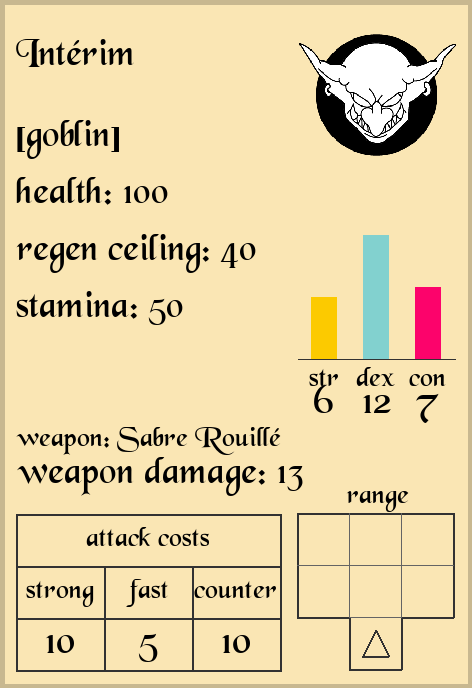
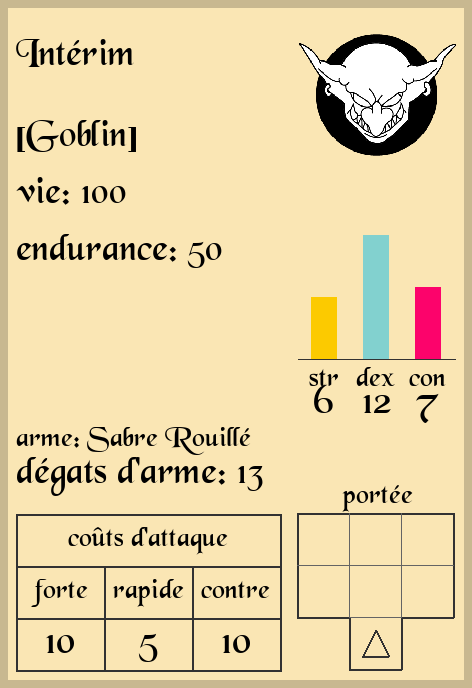
Entity cards language switched to french.

diff --git a/drawCards.py b/drawCards.py
@@ -16,17 +16,14 @@ descFontName = "data/fonts/Jost/Jost-VariableFont_wght.ttf"
 def mainDraw():
     #outPutTest()
     #generateMovesCards()
-    generateItemsCards()
+    #generateItemsCards()
     return
 
 
 def outPutTest():
     pygame.init()
-    #testEntity = Entity(name="Kamul",species="demon",strength=5,dexterity=10,constitution=15,weaponName="claws")
-    #cardSurface = getMonsterCard(testEntity,1,5)
-    #cardSurface = getMoveCard("feint")
-    cardSurface = getItemCard(weapons["rapière"])
-    #cardSurface = getItemCard(tools["Verrou Déployable"],borderSize=1,sizeFactor=4)
+    testEntity = Entity(name="Kamul",species="demon",strength=5,dexterity=10,constitution=15,weaponName="claws")
+    cardSurface = getMonsterCard(testEntity,1)
     seeOutput(cardSurface)
 
 
@@ -284,8 +281,9 @@ def getMonsterCard(entity,borderSize=1,sizeFactor=8):
     yMargin += nameSurface.h + 4*borderSize
 
     #species,healths,stamina
-    infos = ["["+entity.species+"]","health: "+str(entity.health),
-             "regen ceiling: "+str(entity.criticalHealth),"stamina: "+str(entity.stamina)]
+    infos = ["["+speciesToFr[entity.species]+"]","vie: "+str(entity.health),
+             "endurance: "+str(entity.stamina)]
+    #infos += ["régénération: "+str(entity.criticalHealth)]
     for index,info in enumerate(infos):
         yMargin += text(cardSurface,info,smallTextSize,textColor,"topleft",xMargin,yMargin).h + borderSize
 
@@ -297,7 +295,7 @@ def getMonsterCard(entity,borderSize=1,sizeFactor=8):
     drawingSize = width//3
     rangeDrawing = getRange(entity,drawingSize,drawingSize)
     paste(cardSurface,rangeDrawing,(width-borderSize*2,height-borderSize*2),"bottomright")
-    text(cardSurface,"range",verySmallTextSize,textColor,"midbottom",width-borderSize*2-drawingSize//2,height-borderSize*2-drawingSize)
+    text(cardSurface,"portée",verySmallTextSize,textColor,"midbottom",width-borderSize*2-drawingSize//2,height-borderSize*2-drawingSize)
 
     #stamina costs
     tableHeight = width//3
@@ -307,8 +305,8 @@ def getMonsterCard(entity,borderSize=1,sizeFactor=8):
     yMargin = yPos - (tableHeight + 2*borderSize)
 
     #weapon,weaponDamage
-    yMargin += -text(cardSurface,"weapon damage: "+str(entity.weaponDamage),smallTextSize,textColor,"bottomleft",xMargin,yMargin).h + borderSize
-    yMargin += -text(cardSurface,"weapon: "+entity.weaponName,verySmallTextSize,textColor,"bottomleft",xMargin,yMargin).h + borderSize
+    yMargin += -text(cardSurface,"dégats d'arme: "+str(entity.weaponDamage),smallTextSize,textColor,"bottomleft",xMargin,yMargin).h + borderSize
+    yMargin += -text(cardSurface,"arme: "+entity.weaponName,verySmallTextSize,textColor,"bottomleft",xMargin,yMargin).h + borderSize
 
     return cardSurface
 
@@ -326,8 +324,8 @@ def getCosts(entity,width,height,textSize):
             hStart = 0
         pygame.draw.line(costsTable,(50,50,50),(xStep*index,hStart),(xStep*index,3*yStep),2)
 
-    text(costsTable,"attack costs",textSize,(0,0,0),"center",width//2,yStep//2)
-    labels = ["strong","fast","counter"]
+    text(costsTable,"coûts d'attaque",textSize,(0,0,0),"center",width//2,yStep//2)
+    labels = ["forte","rapide","contre"]
     costs = [entity.strongAtkCost,entity.fastAtkCost,entity.counterAtkCost]
     for index,label in enumerate(labels):
         moveColor = (0,0,0)

diff --git a/constAndStyle.py b/constAndStyle.py
@@ -7,6 +7,11 @@ monsters = ["orc","goblin","skeleton","zombie","mummy","fimir","warrior","demon"
 nonMonsters = ["human","elve","dwarf"]
 speciesList = monsters+nonMonsters
 
+speciesToFr = { "orc":"Orc","goblin":"Goblin","fimir":"Fimir",
+                "skeleton":"Squelette","zombie":"Zombie","mummy":"Mommie",
+                "warrior":"Ancient Guerrier","demon":"Démon",
+                "human":"Humain","elve":"Elfe","dwarf":"Nain"}
+
 skillStats = ["strength","dexterity","constitution",
              "intelligence","perception","charisma"]
 
